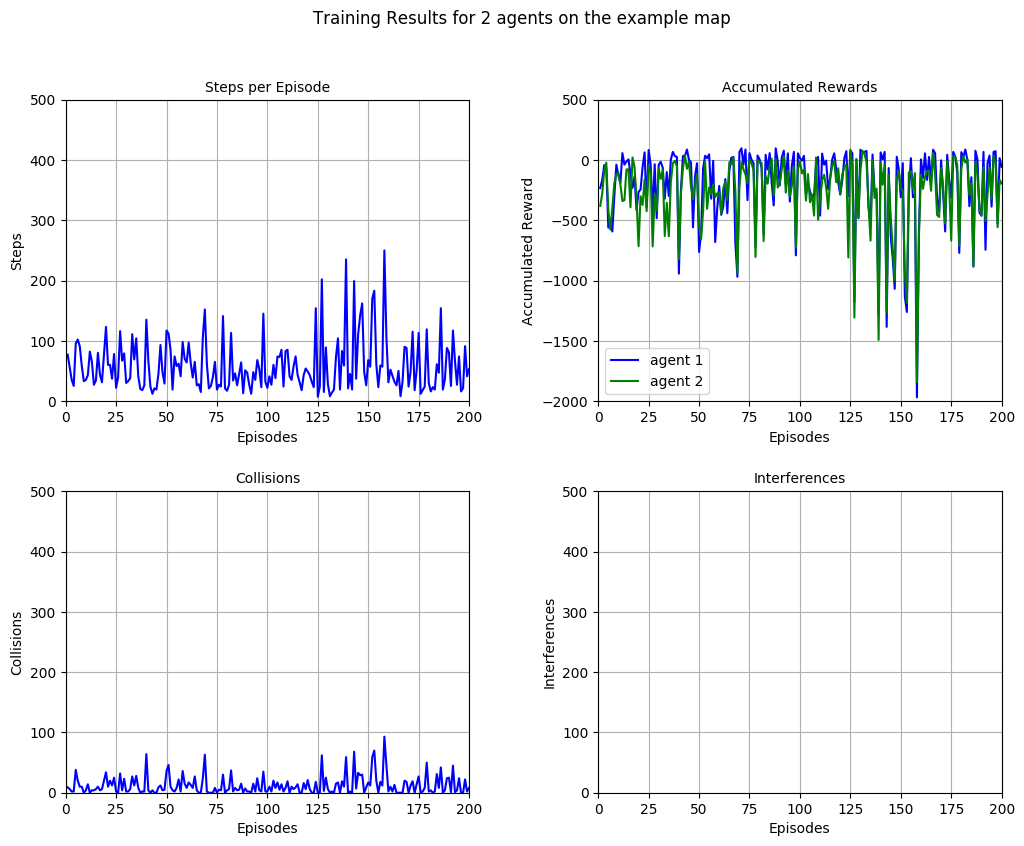
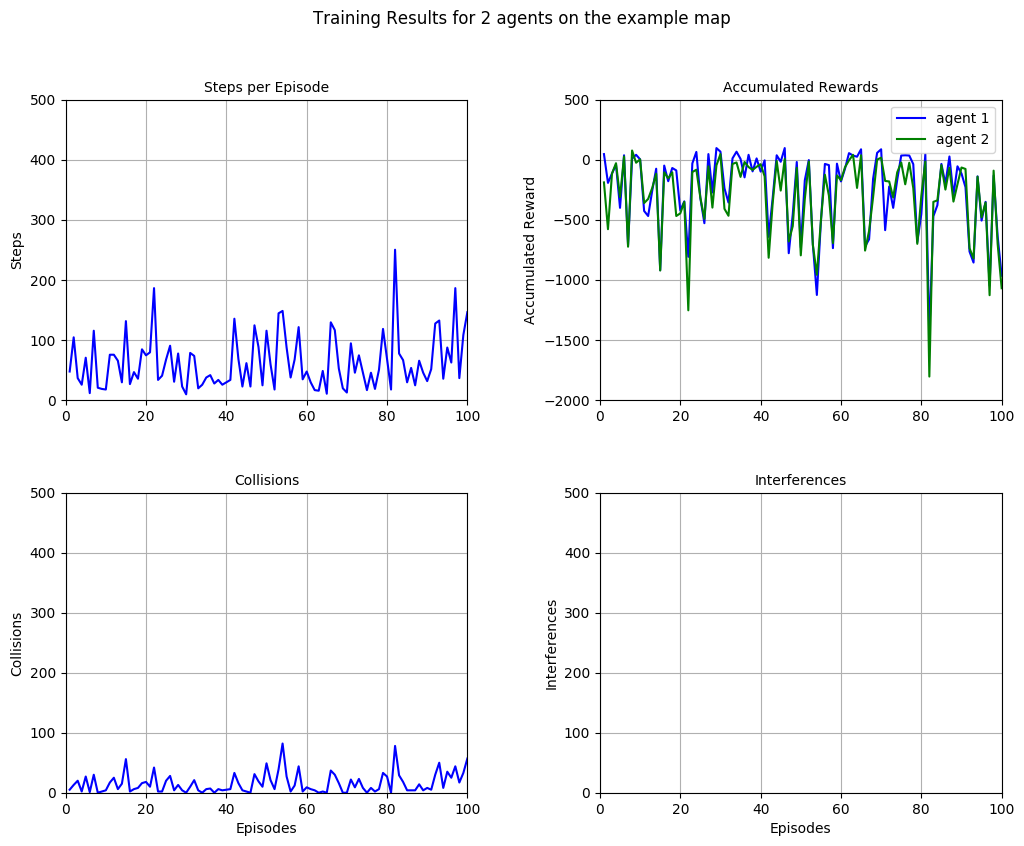
adding more functionality and aggregation to logger

diff --git a/custom_logger.py b/custom_logger.py
@@ -1,20 +1,82 @@
 import pandas as pd
+import numpy as np
 
 
-def log_results(test_data, train_data, nagents, iterations, save=False, display=False):
-    cols = ['Shield', '# iterations']
-    base = ['ep', 'avg_steps', 'avg_acc']
-    ext = ['_train', '_test']
+# Log results into a data frame
+class CustomLogger:
 
-    for ex in ext:
-        for b in base:
-            cols.append(b + ex)
-        for i in range(nagents):
-            cols.append('avg_coll_' + str(i) + ex)
-            cols.append('avg_inter_' + str(i) + ex)
+    def __init__(self, nagents):
+        self.cols = ['Shield', '# iterations']
+        self.base = ['ep', 'avg_steps', 'avg_coll']
+        self.ext = ['_train', '_test']
 
-    print(cols)
+        for ex in self.ext:
+            for b in self.base:
+                self.cols.append(b + ex)
+            for i in range(nagents):
+                self.cols.append('avg_acc_' + str(i) + ex)
+                self.cols.append('avg_inter_' + str(i) + ex)
 
-    df = pd.DataFrame(columns=cols, index=[0, 1])
+        self.nagents = nagents
+        self.df = pd.DataFrame(columns=self.cols)
 
-    print(df)
+    # construct a row and add it to the data frame
+    def log_results(self, test_data, train_data, shielding, iterations, save=False, display=False):
+
+        entry = {}
+
+        entry['Shield'] = int(shielding)
+        entry[self.cols[1]] = iterations
+        ep_train = train_data[0]['episodes']
+        ep_test = test_data[0]['episodes']
+
+        # aggregate data training
+        sum_steps = 0
+        sum_coll = 0
+        sum_acc = np.zeros([self.nagents])
+        sum_inter = np.zeros([self.nagents])
+
+        for it in range(iterations):
+            sum_steps += np.sum(train_data[it]['steps'])
+            sum_coll += np.sum(train_data[it]['collisions'])
+            for i in range(self.nagents):
+                sum_acc[i] += np.sum(train_data[it]['acc_rewards'][:, i])
+                sum_inter[i] += np.sum(train_data[it]['interferences'][i, :])
+
+        # train data
+        entry[self.cols[2]] = ep_train
+        entry[self.cols[3]] = sum_steps / (ep_train)
+        entry[self.cols[4]] = sum_coll / (ep_train)
+
+        cur_ind = 5
+        for i in range(self.nagents):
+            entry[self.cols[cur_ind]] = sum_acc[i] / (ep_train)
+            entry[self.cols[cur_ind + 1]] = sum_inter[i] / (ep_train)
+            cur_ind += 2
+
+        # aggregate data testing
+        for it in range(iterations):
+            sum_steps += np.sum(test_data[it]['steps'])
+            sum_coll += np.sum(test_data[it]['collisions'])
+            for i in range(self.nagents):
+                sum_acc[i] += np.sum(test_data[it]['acc_rewards'][:, i])
+                sum_inter[i] += np.sum(test_data[it]['interferences'][i, :])
+
+        # train data
+        entry[self.cols[cur_ind]] = ep_test
+        entry[self.cols[cur_ind + 1]] = sum_steps / (ep_test)
+        entry[self.cols[cur_ind + 2]] = sum_coll / (ep_test)
+
+        cur_ind = cur_ind + 3
+        for i in range(self.nagents):
+            entry[self.cols[cur_ind]] = sum_acc[i] / (ep_test)
+            entry[self.cols[cur_ind + 1]] = sum_inter[i] / (ep_test)
+            cur_ind += 2
+
+        self.df = self.df.append(entry, ignore_index=True)
+
+        print(self.df)
+
+    def save(self):
+        # save the dataframe to a csv file.
+        pass

diff --git a/run_exp_CQ.py b/run_exp_CQ.py
@@ -1,6 +1,6 @@
 from CQLearning import CQLearning
 from plotting import plot_v2
-from custom_logger import log_results
+from custom_logger import CustomLogger
 import numpy as np
 
 # map_names = ['example', 'ISR', 'Pentagon', 'MIT', 'SUNY']
@@ -13,6 +13,7 @@ ep_test = 10
 iterations = 1
 display = True
 save = True
+logger = CustomLogger(agents)
 
 
 def format_data(steps, acc, coll, inter, ep):
@@ -30,7 +31,8 @@ def format_data(steps, acc, coll, inter, ep):
 for m in map_names:
     cq = CQLearning(map_name=m, nagents=agents)
     i_step_max, i_episode_max, step_max, episode_max = cq.get_recommended_training_vars()
-
+    i_episode_max = 100
+    episode_max = 100
     train_data = []
     test_data = []
 
@@ -53,4 +55,4 @@ for m in map_names:
         cq.reset()
 
     # Log information
-    log_results(test_data, train_data, agents, iterations)
+    logger.log_results(test_data, train_data, shielding, iterations)

diff --git a/plotting.py b/plotting.py
@@ -59,9 +59,9 @@ def plot_v2(data, agents, map='example', test=False, shielding=False, save=True,
     ax04.grid(True)
 
     # set label names
-    ax01.set_xlabel("Episodes")
+    # ax01.set_xlabel("Episodes")
     ax01.set_ylabel("Steps")
-    ax02.set_xlabel("Episodes")
+    # ax02.set_xlabel("Episodes")
     ax02.set_ylabel("Accumulated Reward")
     ax03.set_xlabel("Episodes")
     ax03.set_ylabel("Collisions")
